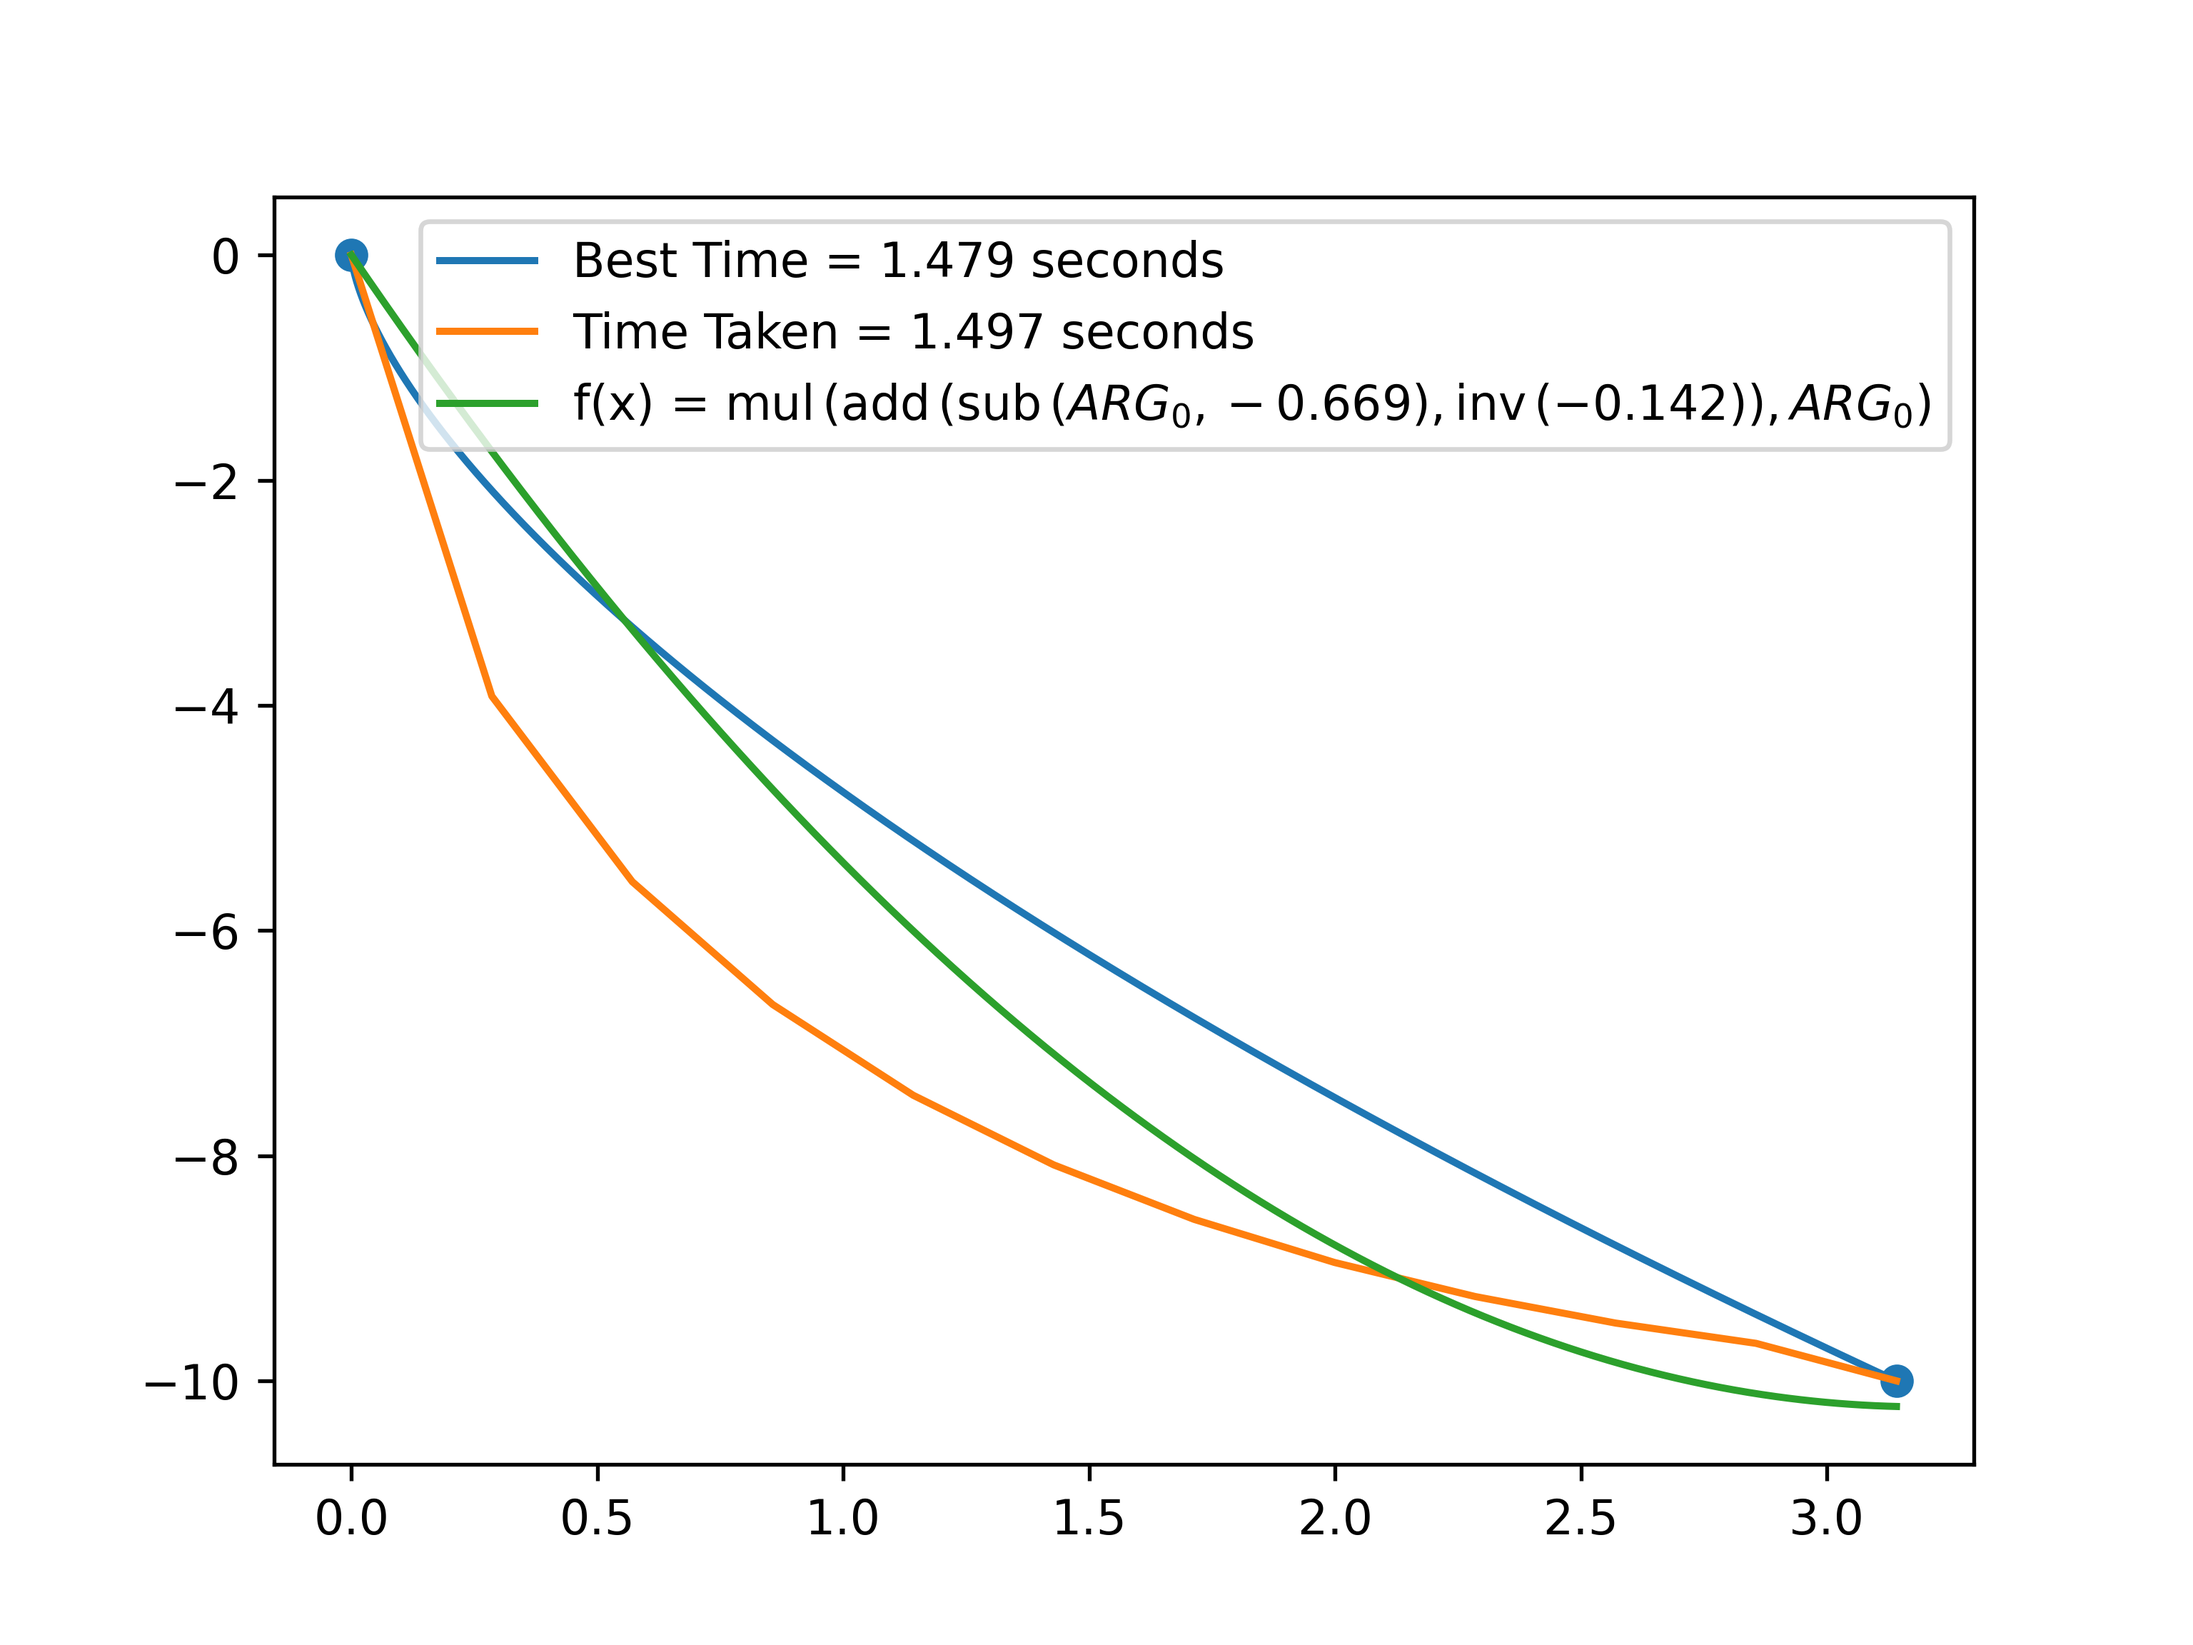
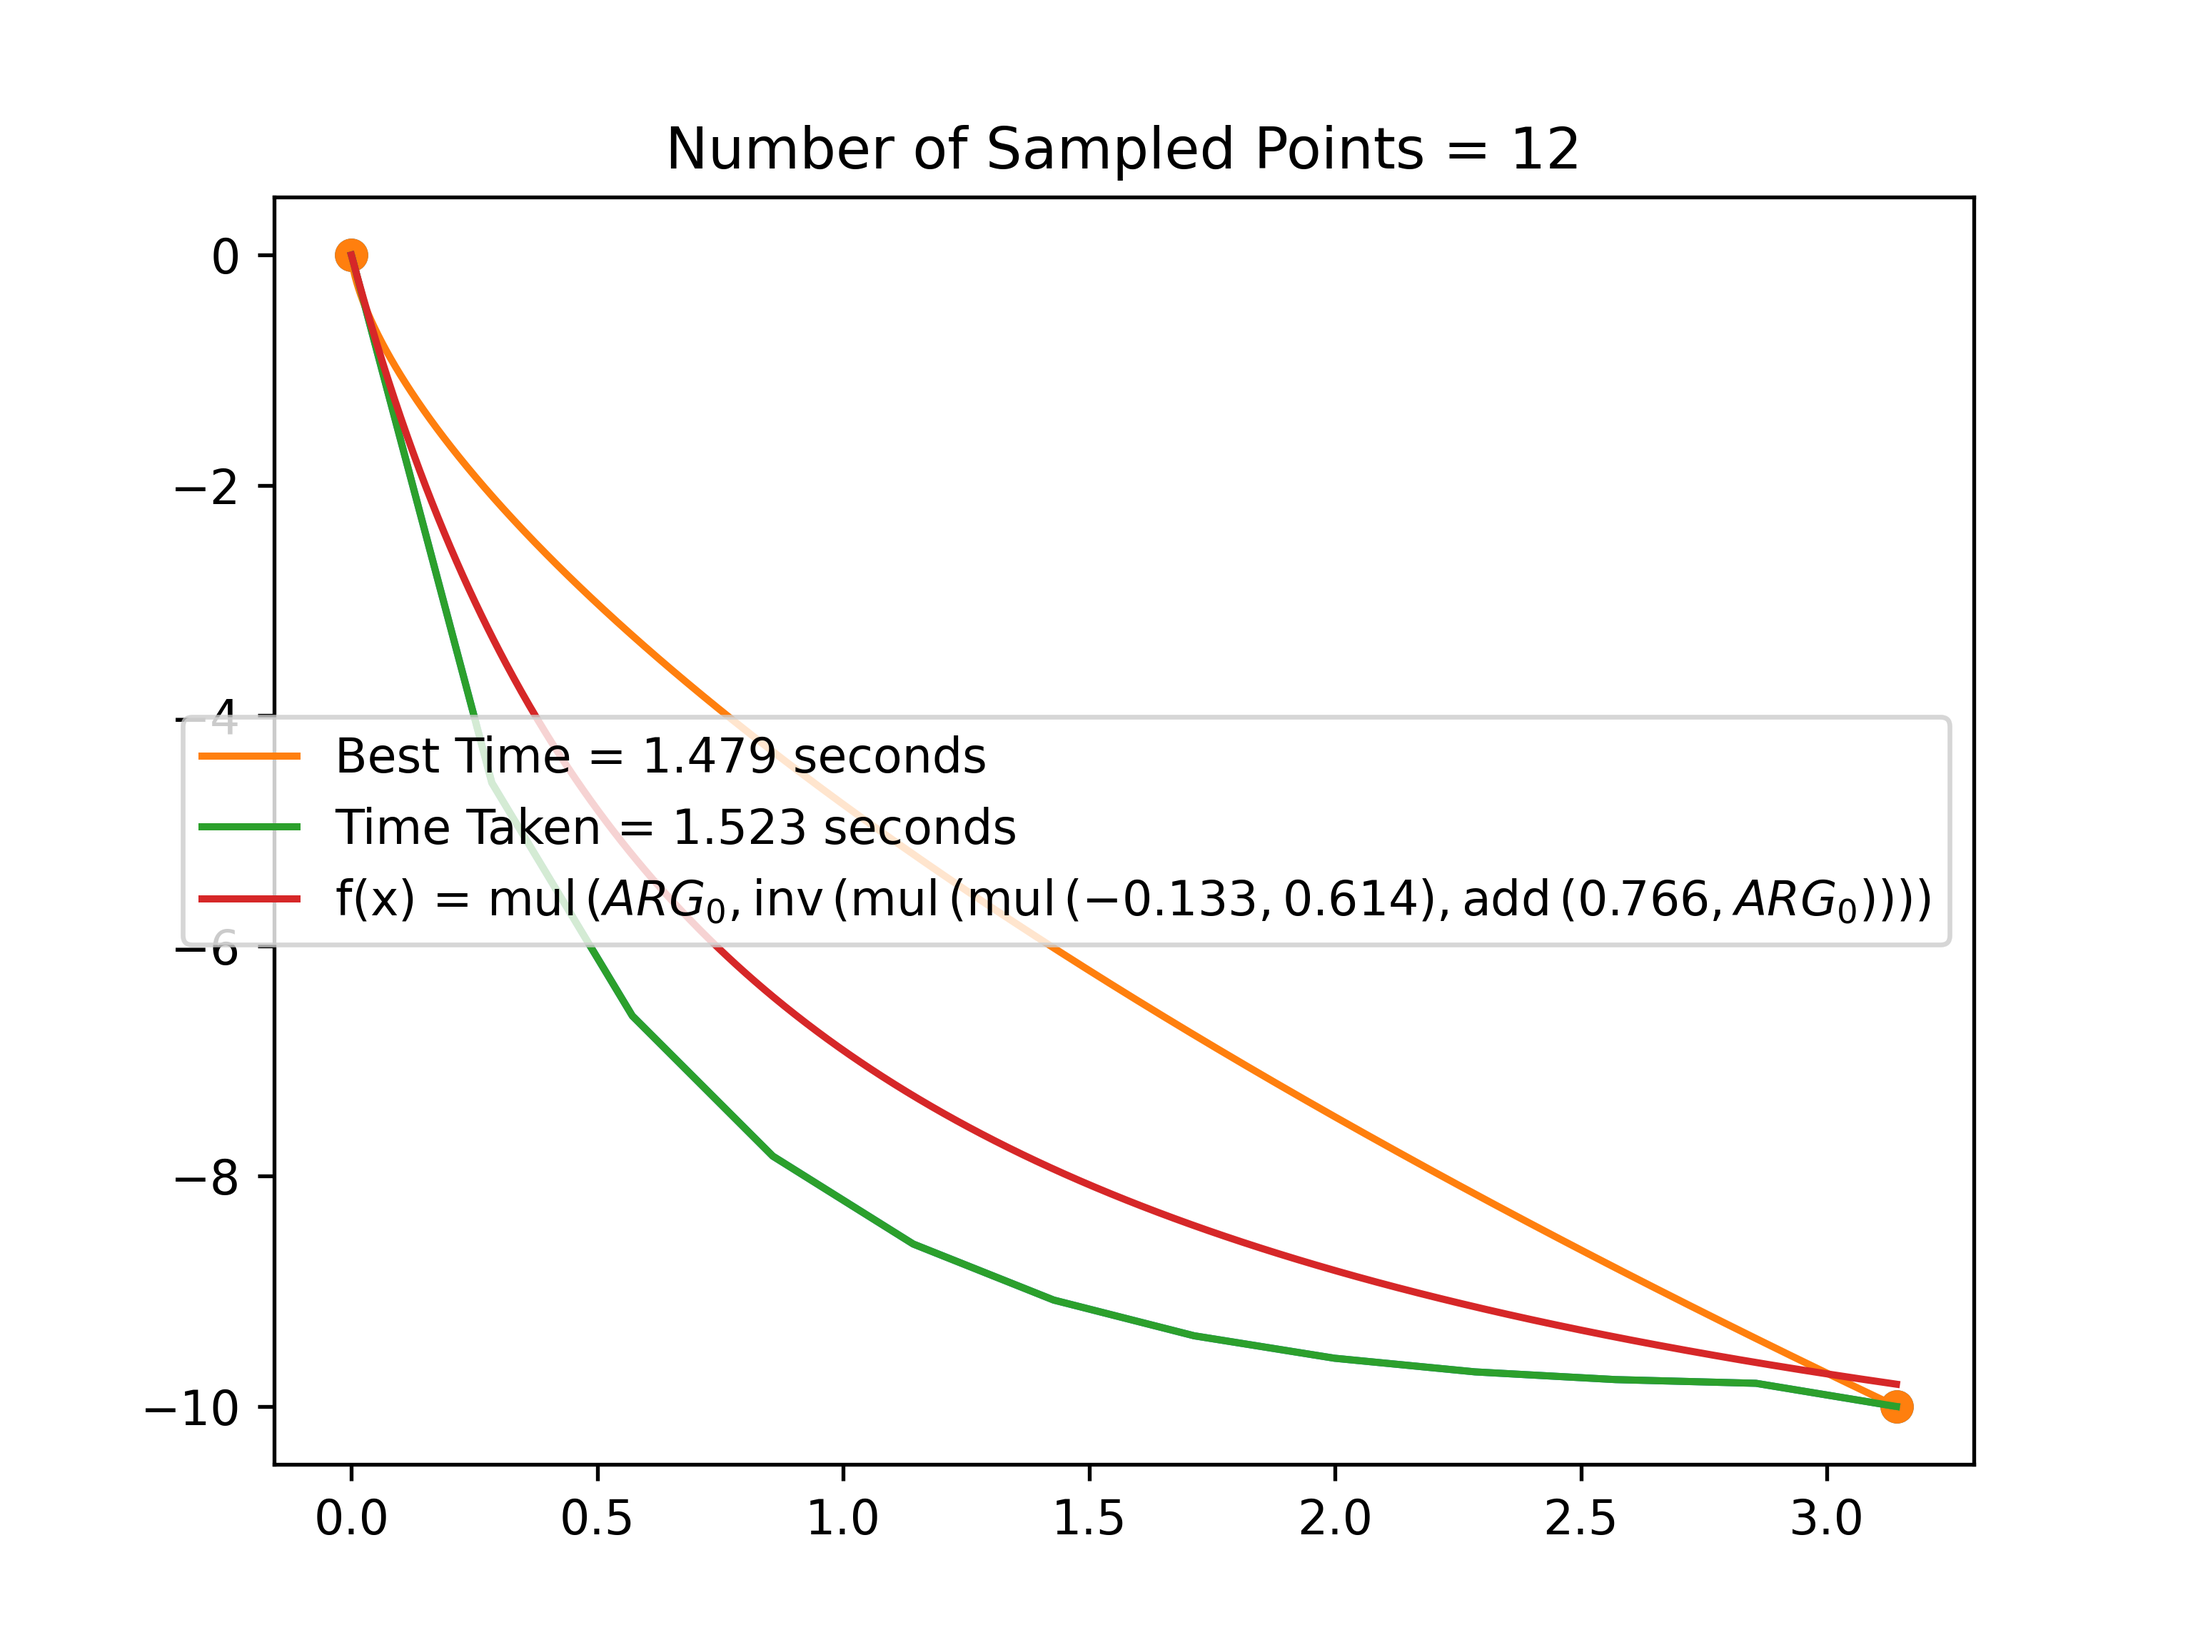
deap new best

diff --git a/RL_Brachistochrone.py b/RL_Brachistochrone.py
@@ -661,7 +661,7 @@ if __name__ == '__main__':
         plt.plot(x_points, y_points,
                  label=f"Best Time = {optimal_time:0.3f} seconds")
         best_t = np.loadtxt("RL_Brachistochrone_best_time.txt")
-        plt.plot(X, y, label=f"Time Taken = {1.029:.3f} seconds")
+        plt.plot(X, y, label=f"Time Taken = {best_t:.3f} seconds")
         plt.scatter((X[0], X[-1]), (y[0], y[-1]))
 
     # Symbolic Regression
